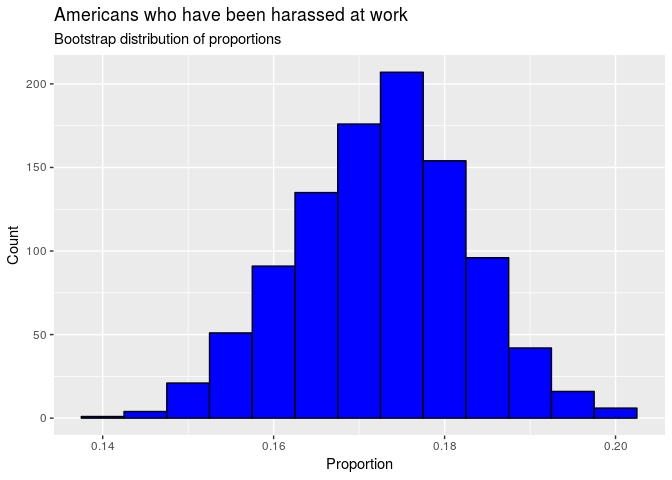
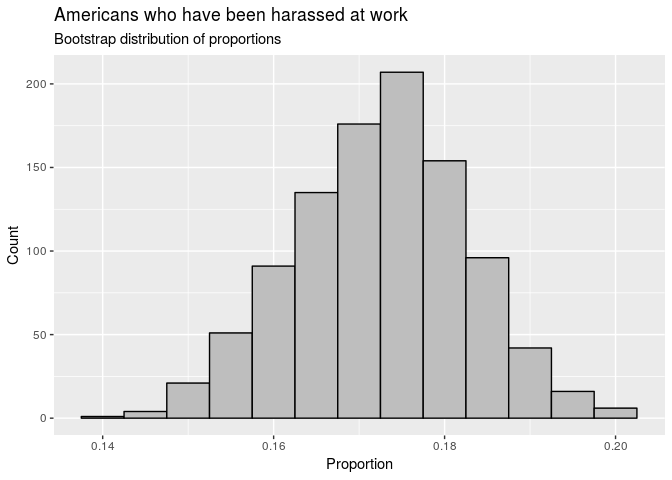
Finishedf exercise 7 and 8

Changed region(s): [[0.1875, 0.125, 0.9688, 0.875]]

diff --git a/hw-09-bootstrap-gss.md b/hw-09-bootstrap-gss.md
@@ -100,7 +100,7 @@ harass_bs
 ggplot(data = harass_bs, 
        mapping = aes(x = stat)) +
   geom_histogram(binwidth = 0.005, 
-                 fill = "Blue", 
+                 fill = "Grey", 
                  color = "Black") +
   labs(title = "Americans who have been harassed at work",
        subtitle = "Bootstrap distribution of proportions",
@@ -126,13 +126,29 @@ harass_bs %>%
     ## 1 0.152 0.192
 
 The 95% bootstrap confidence interval based on the distribution we
-constructed above is
+constructed above is 0.152 to 0.192.
 
 ### Exercise 6
 
 ### Exercise 7
 
+To be 95% confident means that that there is a 95% chance that the
+confidence interval determined contains the true value of the proportion
+of Americans who are harassed at work. We can say with 95% confidence,
+or certainty, that the true percentage of Americans who are harassed at
+work lies within our confidence interval.
+
 ### Exercise 8
+
+90% confidence interval: (0.157, 0.189)
+
+99% confidence interval: (0.147, 0.196)
+
+If the confidence that our interval contains the true proportion of
+Americans who are harassed at work increases, then the interval must
+become wider, and vice versa. This is because as the interval widens to
+cover more potential proportion values, there is a greater probability
+(or confidence) that it contains the true proportion.
 
 ### Exercise 9
 
